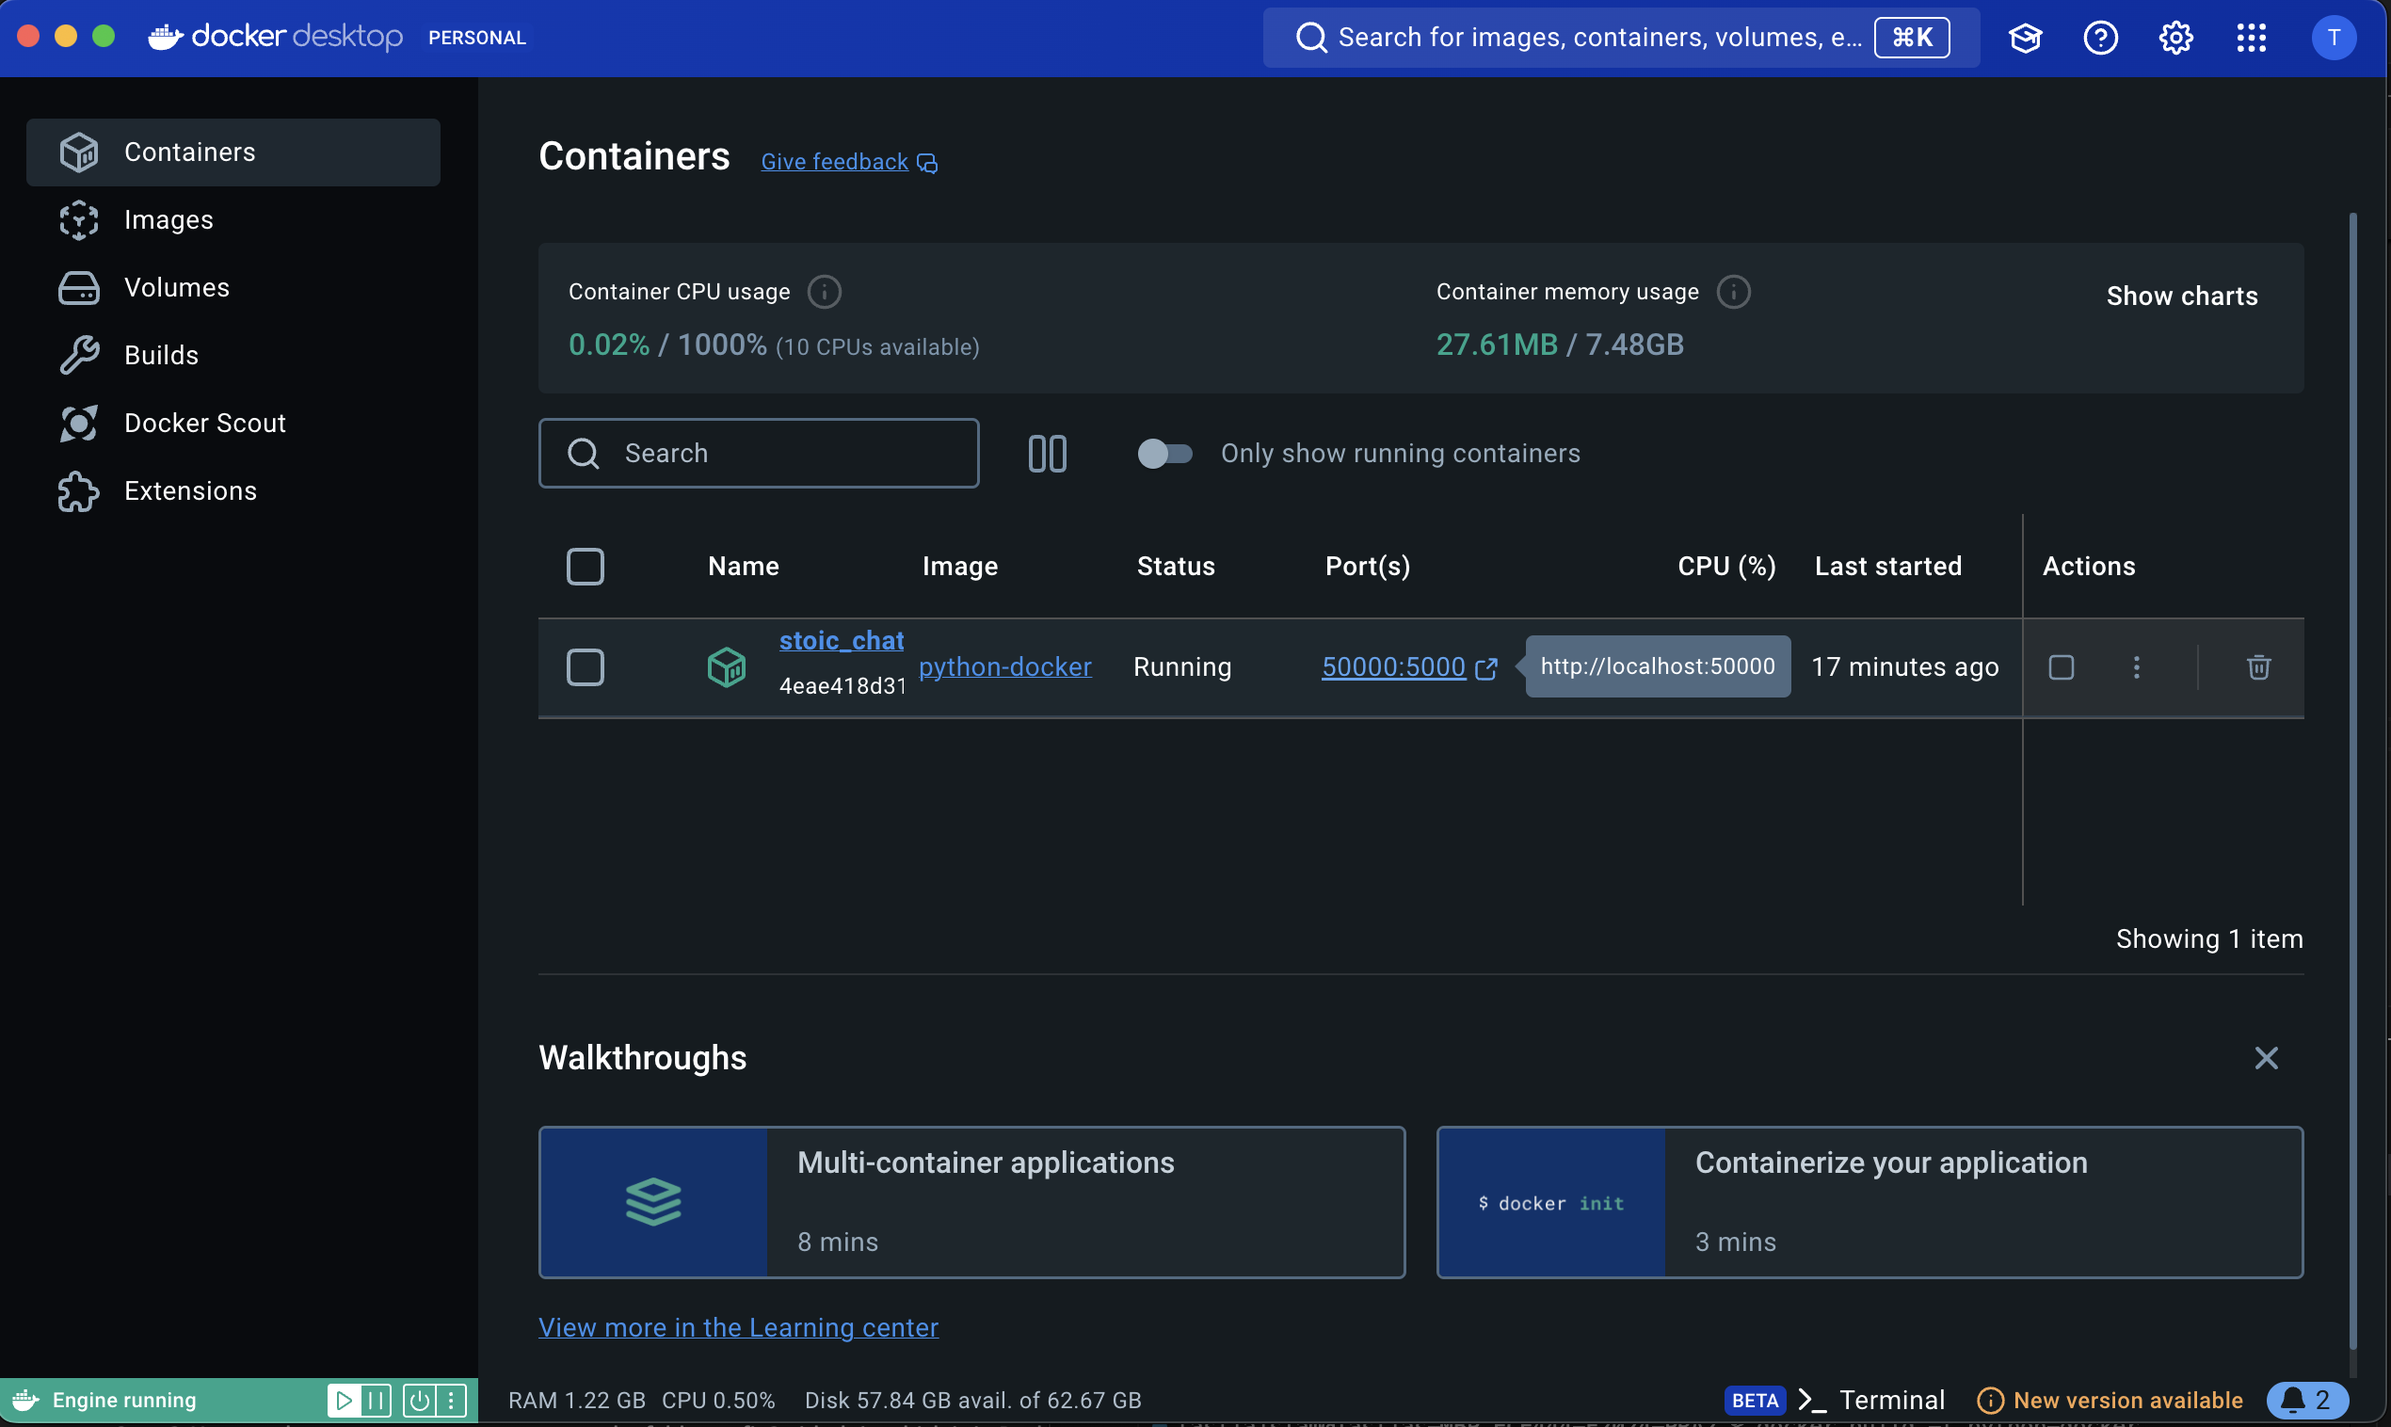
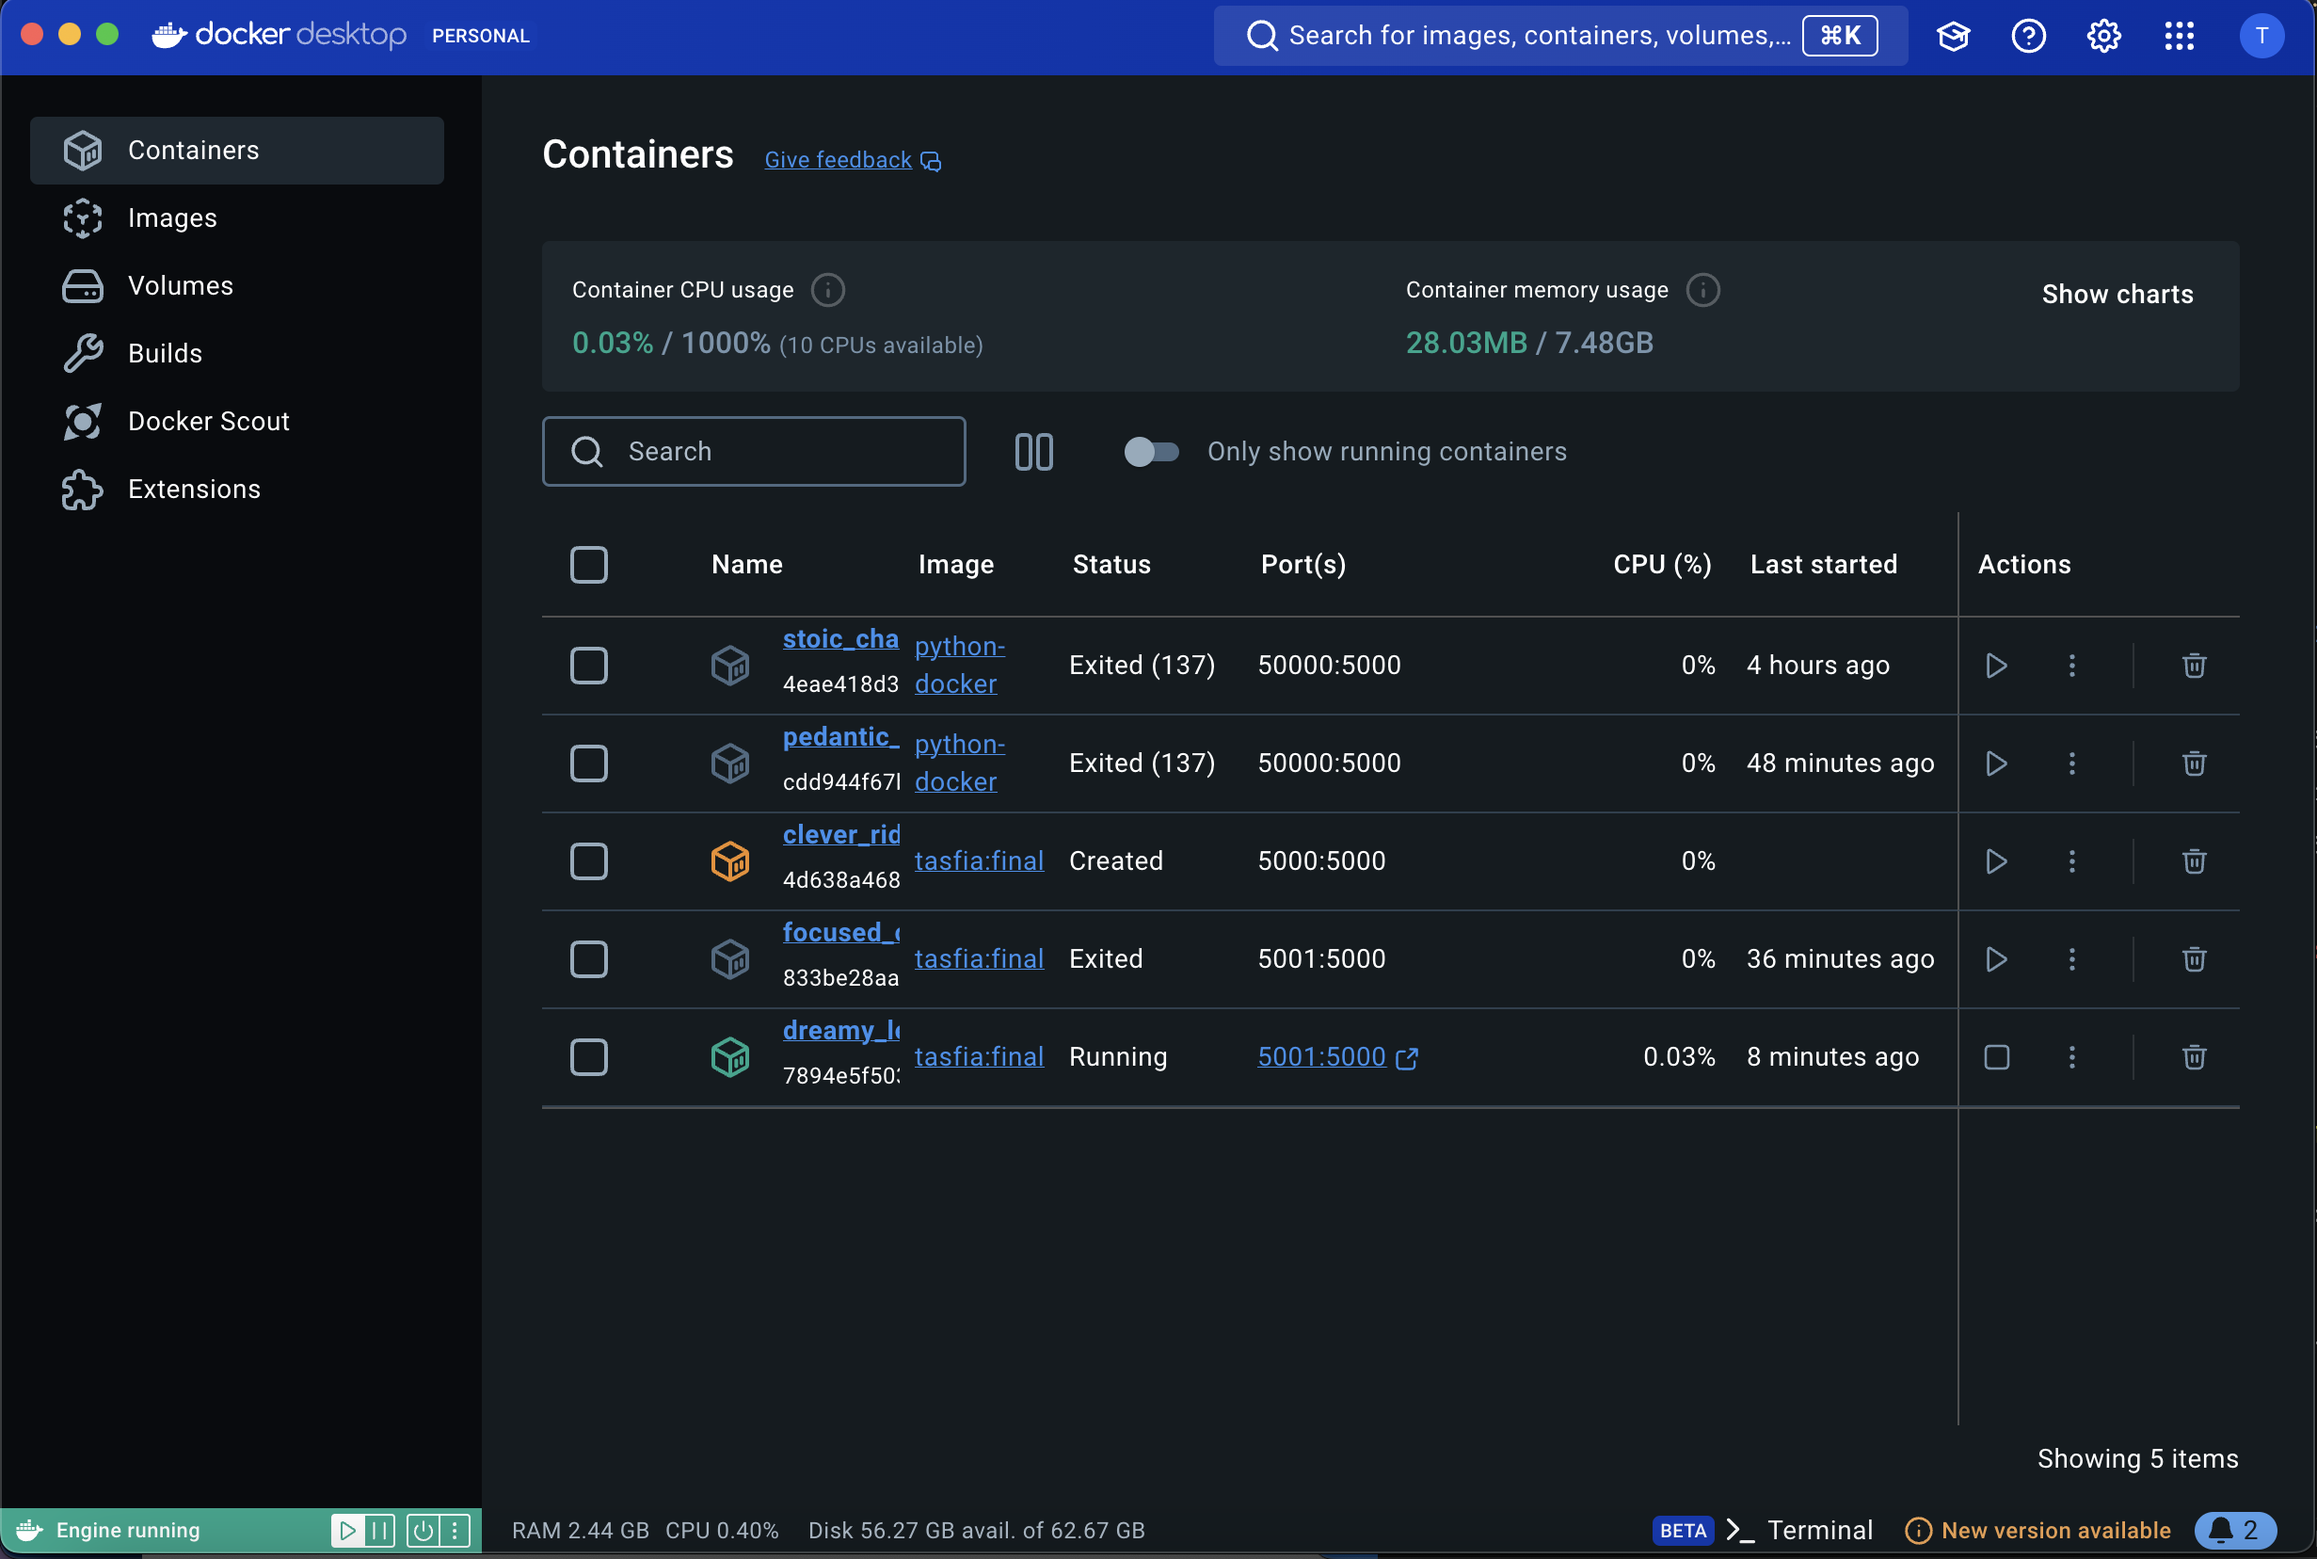
Activity 2.4 CompletedFinal1

diff --git a/README.md b/README.md
@@ -111,22 +111,27 @@ pip install email-validator
 
 ## Activity 2.4: Building and running the docker image locally 
 
-Do not build and run in virtual environment like Flask in previous activity, go to root repo
-directory of local computer.
+Make sure to run in virtual environment like Flask in previous activity, go to root repo directory of local computer.
 
 ## Activity 2.4: Step 3 Build & Run
+ *First activate virtual env:*
  
- <docker build -t python-docker .>
+ python3 -m venv .venv   
+. .venv/bin/activate 
+
+*Build:*
+
+docker build -t tasfia:final .
  
 ![](Screenshots/A2_4step3a.png)
 
-<docker run -d -p 50000:5000 python-docker>
+*Run:*
+
+docker run -p 5000:5000 tasfia:final
 
 ![](Screenshots/A2_4step3b.png)
 
-To show the containers currently running, used <docker ps –a>, then saw the log information indicating the running application. 
-
-<docker ps –a>
+Full Snippet of venv, build, run:
 
 ![](Screenshots/A2_4step3c.png)
 
@@ -134,10 +139,20 @@ To show the containers currently running, used <docker ps –a>, then saw the lo
 
 Application running (Go to Docker Desktop application on local computer & click port):
 
-http://localhost:50000/
+*If port 5000:*
+
+http://localhost:5000/
+
+*If port 5001:*
+
+http://localhost:5001/
 
 ![](Screenshots/A2_4step4a.png)
 
 ![](Screenshots/A2_4step4b.png)
+
+CAREFUL: do this command only after you CTRL+C and exit but it's okay if you still stay in venv. To show the containers currently running, used <docker ps –a>, then saw the log information indicating the running application. 
+
+docker ps -a
 
 ![](Screenshots/A2_4step4c.png)
